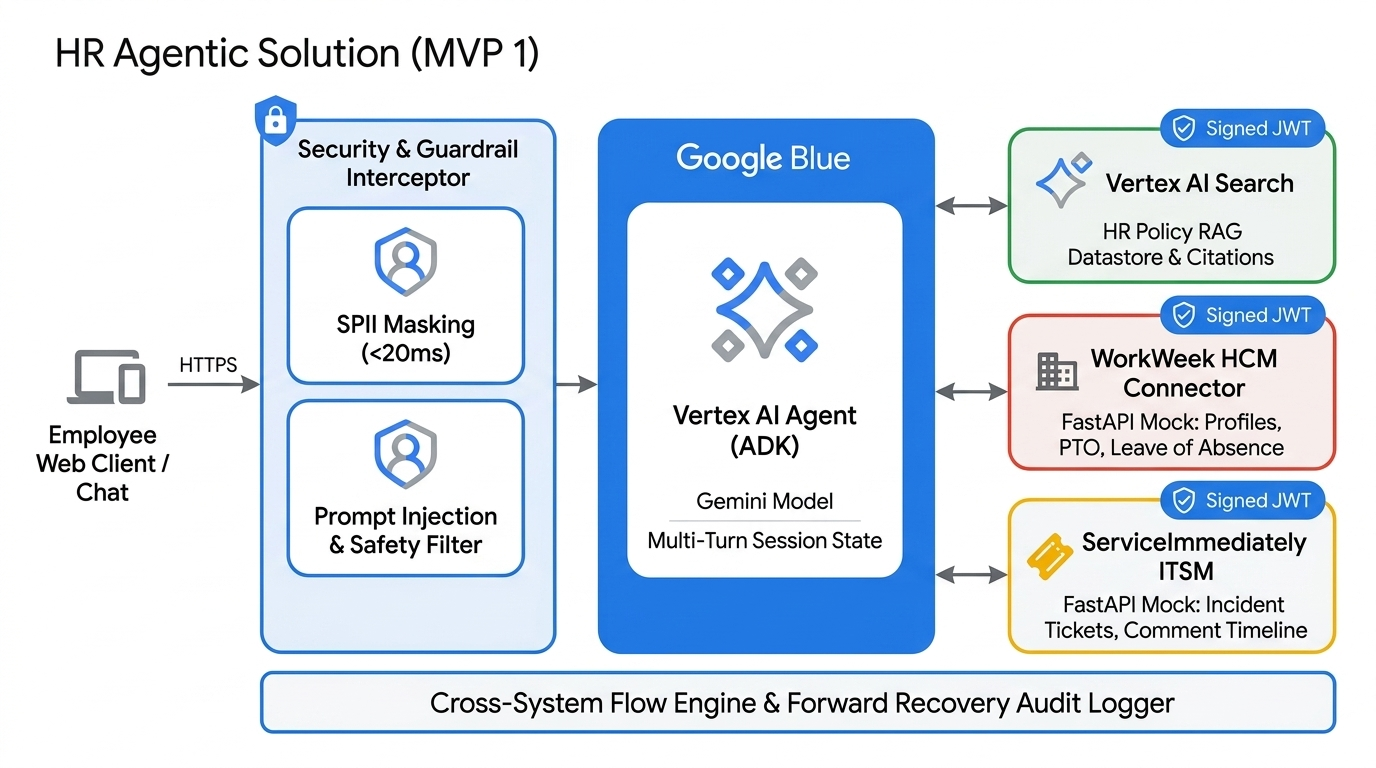
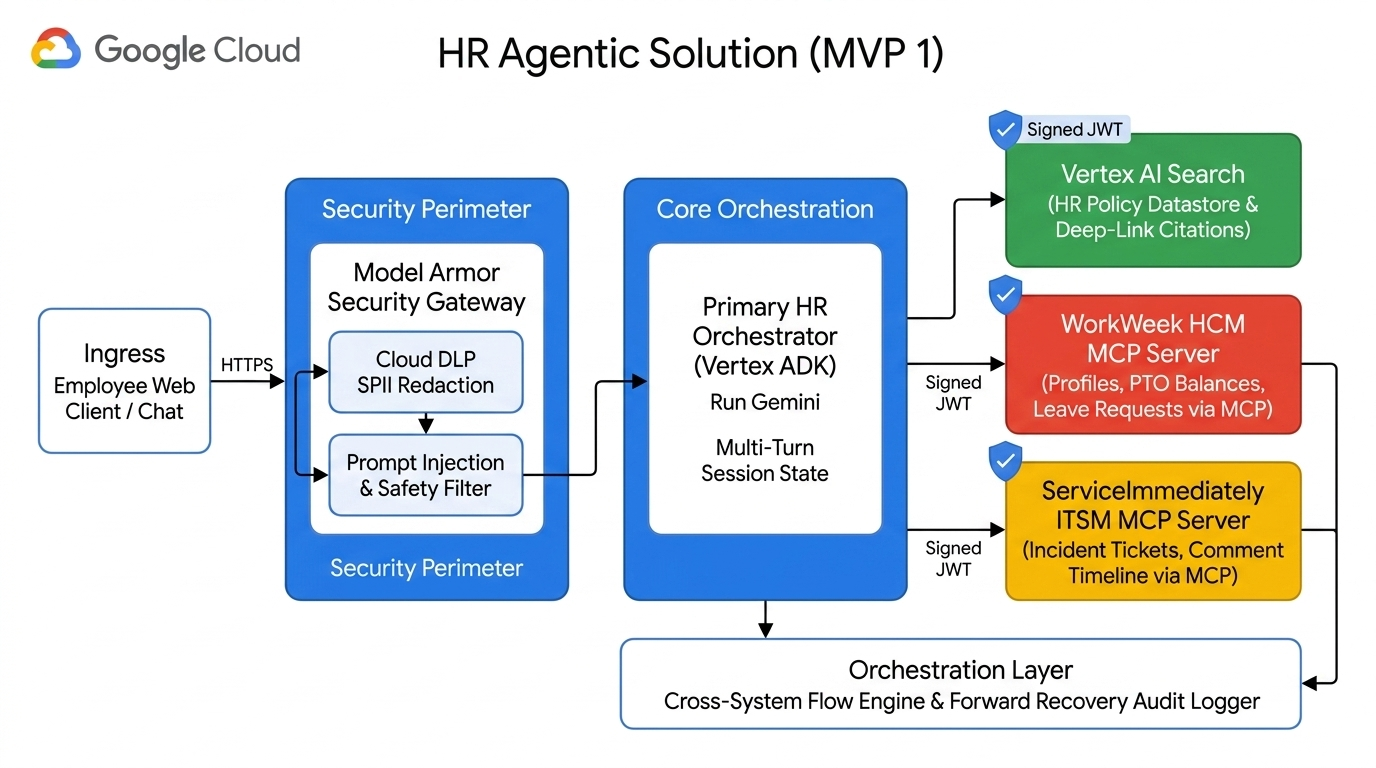
feat(adr-0001): adopt Model Context Protocol (MCP) servers for WorkWeek and ServiceImmediately integrations

diff --git a/README.html b/README.html
@@ -132,13 +132,13 @@
           <tr>
             <td><strong>3. WorkWeek HCM Specialist</strong></td>
             <td>Live profile fetch, PTO balance query, leave bookings</td>
-            <td>WorkWeek REST Tools</td>
+            <td>WorkWeek MCP Tools</td>
             <td><span class="tag tag-yellow">workweek:*</span></td>
           </tr>
           <tr>
             <td><strong>4. ServiceImmediately Specialist</strong></td>
             <td>Incident creation, comments, lifecycle state guardrails</td>
-            <td>ServiceImmediately REST Tools</td>
+            <td>ServiceImmediately MCP Tools</td>
             <td><span class="tag tag-yellow">serviceimmediately:*</span></td>
           </tr>
         </tbody>
@@ -157,9 +157,9 @@
         </thead>
         <tbody>
           <tr>
-            <td><a href="./docs/adr/0001-fastapi-mock-services.md">ADR-0001</a></td>
-            <td>FastAPI Mock Services</td>
-            <td>Self-contained local RESTful mock services with stateful JSON fixtures for deterministic offline testing.</td>
+            <td><a href="./docs/adr/0001-mcp-enterprise-servers.md">ADR-0001</a></td>
+            <td>MCP Enterprise Servers</td>
+            <td>Dedicated Model Context Protocol (MCP) servers with stateful enterprise fixtures, schema validation, and guardrails.</td>
           </tr>
           <tr>
             <td><a href="./docs/adr/0002-vertex-ai-search-policy-rag.md">ADR-0002</a></td>
@@ -231,8 +231,8 @@
       <ul>
         <li><a href="./.scratch/hr-agentic-mvp1/issues/01-project-scaffold-domain-models-jwt.md">Ticket 01</a> — Project Scaffold, Domain Models & Signed JWT Auth <em>(Frontier)</em></li>
         <li><a href="./.scratch/hr-agentic-mvp1/issues/02-security-sentinel-spii-guardrails.md">Ticket 02</a> — Security Sentinel Gateway (Model Armor & Tiered SPII)</li>
-        <li><a href="./.scratch/hr-agentic-mvp1/issues/03-workweek-hcm-mock-service.md">Ticket 03</a> — WorkWeek HCM FastAPI Mock Service & Connector Tools</li>
-        <li><a href="./.scratch/hr-agentic-mvp1/issues/04-serviceimmediately-itsm-mock-service.md">Ticket 04</a> — ServiceImmediately ITSM FastAPI Mock Service & Connector Tools</li>
+        <li><a href="./.scratch/hr-agentic-mvp1/issues/03-workweek-hcm-mock-service.md">Ticket 03</a> — WorkWeek HCM MCP Server & Connector Tools</li>
+        <li><a href="./.scratch/hr-agentic-mvp1/issues/04-serviceimmediately-itsm-mock-service.md">Ticket 04</a> — ServiceImmediately ITSM MCP Server & Connector Tools</li>
         <li><a href="./.scratch/hr-agentic-mvp1/issues/05-policy-qa-specialist-vertex-search.md">Ticket 05</a> — Policy Q&A Specialist Agent & Live Vertex AI Search Grounding</li>
         <li><a href="./.scratch/hr-agentic-mvp1/issues/06-primary-hr-orchestrator-adk.md">Ticket 06</a> — Primary HR Orchestrator Agent (Vertex ADK) & Dispatcher</li>
         <li><a href="./.scratch/hr-agentic-mvp1/issues/07-cross-system-workflow-handlers.md">Ticket 07</a> — Cross-System Workflow Handlers with Forward Recovery</li>

diff --git a/docs/slides/index.html b/docs/slides/index.html
@@ -356,7 +356,7 @@
         <div class="card card-primary">
           <div class="card-title"><span style="color:var(--g-blue);">ADR-0001</span>: FastAPI Mock Services</div>
           <div class="card-desc">
-            Embedded local RESTful mock services with stateful JSON fixtures emulate WorkWeek (HCM) and ServiceImmediately (ITSM) for deterministic local testing.
+            Dedicated Model Context Protocol (MCP) servers for WorkWeek and ServiceImmediately provide realistic stateful enterprise fixtures, type-safe schemas, and built-in guardrails.
           </div>
         </div>
         <div class="card card-success">

diff --git a/.scratch/hr-agentic-mvp1/spec.md b/.scratch/hr-agentic-mvp1/spec.md
@@ -72,10 +72,10 @@ The system:
    - Enforces strict grounding with structured citation metadata (document name, section header, source URL/Deep Link).
    - Rejects out-of-domain queries and issues explicit "not found in company policy" fallbacks when context is missing.
 
-3. **Enterprise Backend Connectors (FastAPI Mock Suite)**:
-   - **WorkWeek Connector**: Exposes `/api/v1/employees/{id}`, `/api/v1/employees/{id}/pto`, and `/api/v1/leave/requests`. Enforces balance checks, date validity, and format checks.
-   - **ServiceImmediately Connector**: Exposes `/api/now/table/incident` and `/api/now/table/incident/{id}`. Enforces lifecycle state transitions, duplicate request mitigation, and interactive priority verification (ADR-0010).
-   - **Origin Authentication Middleware**: Every request validates a signed JWT bearer token containing `sub` (employee ID), `iss` (`HR-Agent-v1`), and explicit operation scopes (ADR-0006).
+3. **Enterprise Backend Connectors (Model Context Protocol / MCP Servers - ADR-0001)**:
+   - **WorkWeek MCP Server**: Exposes MCP tools (`workweek_get_profile`, `workweek_get_pto_balances`, `workweek_submit_leave_request`). Enforces real-time balance checks, temporal date validity, and contact validation over realistic stateful enterprise fixtures.
+   - **ServiceImmediately MCP Server**: Exposes MCP tools (`itsm_get_ticket`, `itsm_create_incident`, `itsm_post_comment`, `itsm_update_status`). Enforces lifecycle state transitions, duplicate request mitigation, and interactive priority verification (ADR-0010).
+   - **Origin Authentication Middleware**: Every MCP tool call validates a signed JWT bearer token containing `sub` (employee ID), `iss` (`HR-Agent-v1`), and explicit operation scopes (ADR-0006).
 
 4. **Security Sentinel Gateway (Google Cloud Model Armor & Tiered SPII - ADR-0011 & ADR-0012)**:
    - **Managed Gateway**: Routes ingress prompts and egress responses through Google Cloud Model Armor templates for injection defense, jailbreak mitigation, and Cloud DLP SPII redaction.
@@ -97,8 +97,8 @@ The system:
 | **FR-1.5** | RBAC & Data Isolation | Scoped delegated auth tokens per employee ID + 15m TTL | Multi-user cross-access isolation test suite |
 | **FR-2.1** | Natural Language Understanding | Vertex AI ADK with Gemini model intent parser | Typo and synonym tolerance benchmark |
 | **FR-2.2** | Multi-Turn Dialog | Isolated stateful session manager with TTL (ADR-0009) | Context retention & memory leak tests |
-| **FR-3.1–3.4** | WorkWeek Integration | WorkWeek FastAPI Connector + Confirmation Gate (ADR-0007) | Balance constraint, date validity & confirmation tests |
-| **FR-4.1–4.3** | ServiceImmediately Integration | ServiceImmediately Connector + Priority Guard (ADR-0010) | State transition, duplicate detection & priority tests |
+| **FR-3.1–3.4** | WorkWeek Integration | WorkWeek MCP Server + Confirmation Gate (ADR-0001 & ADR-0007) | Balance constraint, date validity & confirmation tests |
+| **FR-4.1–4.3** | ServiceImmediately Integration | ServiceImmediately MCP Server + Priority Guard (ADR-0001 & ADR-0010) | State transition, duplicate detection & priority tests |
 | **FR-5.1–5.5** | Policy Document Q&A | Live Vertex AI Search datastore with metadata citations (ADR-0008) | Grounding precision benchmark (≥95% accuracy, 0% hallucination) |
 | **UC-2.1–2.3** | Cross-System Orchestration | Cross-System Flow Engine with Forward Recovery (ADR-0004) | End-to-end workflow execution & failure recovery tests |
 
@@ -126,6 +126,6 @@ The system:
 
 ## Further Notes
 
-- Architectural decisions are formally documented in `docs/adr/0001-fastapi-mock-services.md` through `docs/adr/0012-google-cloud-model-armor.md`.
+- Architectural decisions are formally documented in `docs/adr/0001-mcp-enterprise-servers.md` through `docs/adr/0012-google-cloud-model-armor.md`.
 - Multi-agent roles and scopes are detailed in `docs/multi_agent_architecture.md`.
 - Domain glossary is maintained in `CONTEXT.md`.

diff --git a/README.md b/README.md
@@ -54,7 +54,7 @@ All architectural design choices are formally documented in [docs/adr/](./docs/a
 
 | ADR ID | Title | Core Architectural Decision |
 | :--- | :--- | :--- |
-| **[ADR-0001](./docs/adr/0001-fastapi-mock-services.md)** | FastAPI Mock Services | Embedded RESTful mock services with stateful JSON fixtures for deterministic local testing. |
+| **[ADR-0001](./docs/adr/0001-mcp-enterprise-servers.md)** | MCP Enterprise Servers | Model Context Protocol (MCP) servers with stateful enterprise fixtures and validation guardrails. |
 | **[ADR-0002](./docs/adr/0002-vertex-ai-search-policy-rag.md)** | Vertex AI Search Policy RAG | Semantic retrieval & strict grounding engine returning clickable section deep links. |
 | **[ADR-0003](./docs/adr/0003-hybrid-safety-guardrails.md)** | Hybrid Safety Guardrails | Sub-20ms regex/Presidio SPII masking + LLM safety classifier guaranteeing <300ms SLA. |
 | **[ADR-0004](./docs/adr/0004-cross-system-forward-recovery.md)** | Cross-System Forward Recovery | Audit logging, pending sync tasks, and manual follow-up guidance on partial workflow failure. |
@@ -79,8 +79,8 @@ All 8 vertical slices are specified in [`.scratch/hr-agentic-mvp1/issues/`](./.s
 flowchart TD
     T1["01 — Project Scaffold, Domain Models & Signed JWT Auth"]
     T2["02 — Security Sentinel Gateway (Model Armor & Tiered SPII)"]
-    T3["03 — WorkWeek HCM Mock Service & Tools"]
-    T4["04 — ServiceImmediately ITSM Mock Service & Tools"]
+    T3["03 — WorkWeek HCM MCP Server & Tools"]
+    T4["04 — ServiceImmediately ITSM MCP Server & Tools"]
     T5["05 — Policy Q&A Specialist & Live Vertex Search"]
     T6["06 — Primary HR Orchestrator (ADK) & Dispatcher"]
     T7["07 — Cross-System Workflow Handlers (UC-2.x)"]
@@ -105,8 +105,8 @@ flowchart TD
 | :-: | :--- | :--- | :--- |
 | **01** | **[`01-project-scaffold-domain-models-jwt.md`](./.scratch/hr-agentic-mvp1/issues/01-project-scaffold-domain-models-jwt.md)** | *None (Frontier)* | Domain schemas (Profile, PTO, Tickets) & cryptographic signed JWT generator/validator. |
 | **02** | **[`02-security-sentinel-spii-guardrails.md`](./.scratch/hr-agentic-mvp1/issues/02-security-sentinel-spii-guardrails.md)** | `01` | Google Cloud Model Armor integration + Cloud DLP / Presidio tiered SPII masking. |
-| **03** | **[`03-workweek-hcm-mock-service.md`](./.scratch/hr-agentic-mvp1/issues/03-workweek-hcm-mock-service.md)** | `01` | WorkWeek FastAPI mock endpoints + confirmation gate, PTO & temporal guardrails. |
-| **04** | **[`04-serviceimmediately-itsm-mock-service.md`](./.scratch/hr-agentic-mvp1/issues/04-serviceimmediately-itsm-mock-service.md)** | `01` | ServiceImmediately FastAPI mock endpoints + lifecycle transitions & priority downgrade guardrail. |
+| **03** | **[`03-workweek-hcm-mock-service.md`](./.scratch/hr-agentic-mvp1/issues/03-workweek-hcm-mock-service.md)** | `01` | WorkWeek MCP tools + confirmation gate, PTO & temporal guardrails. |
+| **04** | **[`04-serviceimmediately-itsm-mock-service.md`](./.scratch/hr-agentic-mvp1/issues/04-serviceimmediately-itsm-mock-service.md)** | `01` | ServiceImmediately MCP tools + lifecycle transitions & priority downgrade guardrail. |
 | **05** | **[`05-policy-qa-specialist-vertex-search.md`](./.scratch/hr-agentic-mvp1/issues/05-policy-qa-specialist-vertex-search.md)** | `01, 02` | Policy Q&A Agent with live Vertex AI Search grounding, citations, and 0% hallucination fallback. |
 | **06** | **[`06-primary-hr-orchestrator-adk.md`](./.scratch/hr-agentic-mvp1/issues/06-primary-hr-orchestrator-adk.md)** | `02, 03, 04, 05` | Root multi-turn session orchestrator in Vertex ADK dispatching to domain specialists. |
 | **07** | **[`07-cross-system-workflow-handlers.md`](./.scratch/hr-agentic-mvp1/issues/07-cross-system-workflow-handlers.md)** | `06` | Chained execution for UC-2.1 (Equipment), UC-2.2 (Medical Leave), UC-2.3 (Relocation) + Forward Recovery. |

diff --git a/.scratch/hr-agentic-mvp1/issues/04-serviceimmediately-itsm-mock-service.md b/.scratch/hr-agentic-mvp1/issues/04-serviceimmediately-itsm-mock-service.md
@@ -1,13 +1,13 @@
-# 04 — ServiceImmediately ITSM FastAPI Mock Service & Connector Tools
+# 04 — ServiceImmediately ITSM MCP Server & Connector Tools
 
-**What to build:** Incident ticket management in ServiceImmediately: ticket lookup, incident creation (1-Critical to 4-Low), interactive priority verification (ADR-0010), comment appending, and lifecycle transition enforcement.
+**What to build:** Dedicated Model Context Protocol (MCP) server exposing ServiceImmediately tools (incident lookup, ticket creation, timeline comments, lifecycle state transitions) with duplicate mitigation and interactive priority verification (ADR-0001, ADR-0010).
 
 **Blocked by:** 01 — Project Scaffold, Domain Models & Signed JWT Auth
 
 **Status:** ready-for-agent
 
-- [ ] FastAPI mock endpoints: /api/now/table/incident and /api/now/table/incident/{id}.
-- [ ] Validates incoming Bearer <signed_jwt> origin token.
-- [ ] Enforces valid state transitions (New -> In Progress -> Resolved -> Closed) and duplicate request mitigation.
-- [ ] Interactive priority downgrade flow when Critical priority lacks major outage justification.
-- [ ] Integration tests verifying ticket creation, timeline updates, and invalid transition rejections.
+- [ ] ServiceImmediately MCP Server implementing tools: `itsm_get_ticket`, `itsm_create_incident`, `itsm_post_comment`, `itsm_update_status`.
+- [ ] Enforces signed JWT origin verification and automation provenance claims.
+- [ ] Enforces valid state transitions (`New` -> `In Progress` -> `Resolved` -> `Closed`) and duplicate request mitigation.
+- [ ] Interactive priority downgrade flow when Critical priority lacks major outage justification (ADR-0010).
+- [ ] Unit & integration tests asserting full round-trip MCP tool execution against realistic incident timelines.

diff --git a/.scratch/hr-agentic-mvp1/issues/03-workweek-hcm-mock-service.md b/.scratch/hr-agentic-mvp1/issues/03-workweek-hcm-mock-service.md
@@ -1,13 +1,13 @@
-# 03 — WorkWeek HCM FastAPI Mock Service & Connector Tools
+# 03 — WorkWeek HCM MCP Server & Connector Tools
 
-**What to build:** Employee self-service in WorkWeek: profile query/update, PTO balance query, and leave request submission with confirmation gate (ADR-0007), temporal, and balance guardrails over FastAPI REST endpoints.
+**What to build:** Dedicated Model Context Protocol (MCP) server exposing WorkWeek tools (profile lookup/update, PTO query, leave booking) with built-in temporal & balance guardrails, confirmation gates (ADR-0007), and signed JWT token verification (ADR-0001, ADR-0006).
 
 **Blocked by:** 01 — Project Scaffold, Domain Models & Signed JWT Auth
 
 **Status:** ready-for-agent
 
-- [ ] FastAPI mock endpoints: /api/v1/employees/{id}, /api/v1/employees/{id}/pto, and /api/v1/leave/requests.
-- [ ] Validates incoming Bearer <signed_jwt> token and enforces employee identity scope.
+- [ ] WorkWeek MCP Server implementing tools: `workweek_get_profile`, `workweek_update_contact`, `workweek_get_pto_balances`, `workweek_submit_leave_request`.
+- [ ] Enforces signed JWT origin verification and employee identity scope.
 - [ ] Rejects leave requests exceeding accrued balance or containing invalid chronological dates.
-- [ ] Integrates confirmation gate before executing leave bookings and contact updates.
-- [ ] Integration tests demonstrating round-trip profile updates and PTO leave bookings.
+- [ ] Integrates confirmation gate before committing state mutations (leave bookings, contact updates).
+- [ ] Unit & integration tests asserting full round-trip MCP tool execution against realistic stateful enterprise fixtures.

diff --git a/docs/multi_agent_architecture.md b/docs/multi_agent_architecture.md
@@ -112,7 +112,7 @@ sequenceDiagram
 
 ## 5. Architectural References
 - **[CONTEXT.md](../CONTEXT.md)**: Domain Glossary
-- **[docs/adr/0001-fastapi-mock-services.md](./adr/0001-fastapi-mock-services.md)**: Mock Server Architecture
+- **[docs/adr/0001-mcp-enterprise-servers.md](./adr/0001-mcp-enterprise-servers.md)**: Mock Server Architecture
 - **[docs/adr/0002-vertex-ai-search-policy-rag.md](./adr/0002-vertex-ai-search-policy-rag.md)**: Policy Grounding Engine
 - **[docs/adr/0003-hybrid-safety-guardrails.md](./adr/0003-hybrid-safety-guardrails.md)**: Safety Pipeline
 - **[docs/adr/0004-cross-system-forward-recovery.md](./adr/0004-cross-system-forward-recovery.md)**: Failure Recovery

diff --git a/docs/adr/0001-mcp-enterprise-servers.md b/docs/adr/0001-mcp-enterprise-servers.md
@@ -1,0 +1,3 @@
+# Use Model Context Protocol (MCP) Servers for Enterprise Integrations
+
+To eliminate custom HTTP client boilerplate, standardize tool interfaces for Gemini, and provide realistic enterprise state with built-in validation guardrails, we implement dedicated Model Context Protocol (MCP) servers for WorkWeek (HCM) and ServiceImmediately (ITSM) backed by realistic stateful seed fixtures and signed JWT origin verification.
